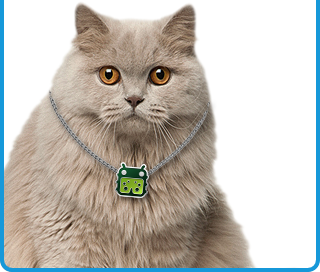
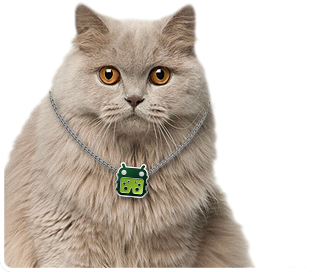
Стили для всех элементов в дефолтном состоянии, изменил изображение кота, добавил переменных для цветов, разметка для остальных карточек товара.

Changed region(s): [[0.0, 0.0, 1.0, 1.0]]

diff --git a/src/scss/_index.scss b/src/scss/_index.scss
@@ -1,0 +1,173 @@
+.main-title {
+  margin-top: 0;
+  margin-bottom: 27px;
+  padding-top: 41px;
+  width: 100%;
+  font-family: $font-exo-thin;
+  font-weight: 100;
+  font-size: 36px;
+  line-height: 1;
+  text-align: center;
+  text-shadow: 0 1px 0 #000;
+  color: #fff;
+}
+
+.catalog {
+  display: flex;
+  flex-wrap: wrap;
+  justify-content: space-between;
+  width: 100%;
+  background: transparent;
+
+  &__item {
+    width: 100%;
+    max-width: 320px;
+  }
+
+  .item {
+    position: relative;
+    overflow: hidden;
+    padding-top: 47px;
+    background: transparent;
+
+    &__wrapper {
+      position: relative;
+      border: 4px solid $color-curious-blue;
+      border-top: none;
+      border-bottom-left-radius: 12px;
+      border-bottom-right-radius: 12px;
+      padding-left: 43px;
+      min-height: 433px;
+      background: $color-concrete;
+
+      &::before {
+        content: "";
+        position: absolute;
+        left: 17px;
+        top: -47px;
+        z-index: -1;
+        border-top: 4px solid $color-curious-blue;
+        border-left: 6px solid $color-curious-blue;
+        width: 60px;
+        height: 47px;
+        background: $color-concrete;
+        transform: skewX(-45deg);
+      }
+
+      &::after {
+        content: "";
+        position: absolute;
+        right: -4px;
+        top: -47px;
+        z-index: -1;
+        border-top: 4px solid $color-curious-blue;
+        border-right: 4px solid $color-curious-blue;
+        border-top-right-radius: 12px;
+        width: 100%;
+        height: 47px;
+        max-width: 270px;
+        background: $color-concrete;
+      }
+    }
+
+    &__header {
+      transform: translateY(-27px);
+    }
+
+    &__description {
+      color: $color-dove-gray;
+    }
+
+    &__title {
+      margin-bottom: 16px;
+      padding-top: 5px;
+      font-size: 0;
+      color: #000;
+    }
+
+    &__name {
+      display: block;
+      font-weight: 700;
+      font-size: 48px;
+    }
+
+    &__taste {
+      display: block;
+      padding-left: 2px;
+      font-weight: 700;
+      font-size: 24px;
+      line-height: 1;
+    }
+
+    &__params {
+      span {
+        display: block;
+        padding-right: 35%;
+        font-size: 14px;
+        line-height: 1.2;
+        color: $color-dove-gray;
+      }
+    }
+
+    &__packaging {
+      position: absolute;
+      right: 11px;
+      bottom: 11px;
+      z-index: 2;
+      display: flex;
+      align-items: center;
+      justify-content: center;
+      border-radius: 50%;
+      width: 81px;
+      height: 81px;
+      background-color: $color-curious-blue;
+    }
+
+    &__number {
+      padding-top: 4px;
+      padding-left: 1px;
+      font-size: 21px;
+      line-height: 1;
+      text-align: center;
+      color: $color-white;
+
+      span {
+        display: block;
+        font-weight: 400;
+
+        &:nth-of-type(1) {
+          font-size: 42px;
+        }
+      }
+    }
+
+    &__image {
+      position: absolute;
+      left: -3px;
+      bottom: -4px;
+      z-index: 1;
+
+      &--cat {
+        border-bottom-left-radius: 12px;
+        width: 320px - 42px;
+        height: 272px;
+        background: transparent url("../images/cat_photo.png") -1px 0 no-repeat;
+      }
+    }
+
+    &__footer {
+      p {
+        font-size: 13px;
+        text-align: center;
+        color: $color-white;
+      }
+
+      a {
+        border-bottom: 1px dashed $color-curious-blue;
+        font-weight: 700;
+        text-decoration: none;
+        color: $color-curious-blue;
+      }
+    }
+  }
+}

diff --git a/src/scss/_variables.scss b/src/scss/_variables.scss
@@ -10,9 +10,11 @@ $color-nobel: #b3b3b3;
 $color-laser-lemon: #ff6;
 $color-dove-gray: #666;
 $color-concrete: #f2f2f2;
+$color-white: #fff;
 
 // Typography
 
 $font-trebuchet: "Trebuchet MS", "Lucida Sans Unicode", "Lucida Grande", "Lucida Sans", Arial, sans-serif;
+$font-exo-thin: "Exo_2_Thin", sans-serif;
 
 // Vendor

diff --git a/src/scss/_common.scss b/src/scss/_common.scss
@@ -4,7 +4,7 @@
   display: flex;
   align-items: center;
   flex-direction: column;
-  justify-content: center;
+  // justify-content: center;
   overflow-x: hidden;
   overflow-y: hidden;
   min-height: 100%;
@@ -24,4 +24,5 @@
   margin: 0 auto;
   width: 100%;
   max-width: 1120px;
+  background-color: transparent;
 }

diff --git a/src/scss/_fonts.scss b/src/scss/_fonts.scss
@@ -1,6 +1,6 @@
 @font-face {
-  font-family: 'Exo 2.0';
-  src: url('./fonts/Exo20-Thin.woff') format('woff');
+  font-family: "Exo_2_Thin";
   font-weight: 100;
   font-style: normal;
+  src: url("../fonts/Exo20-Thin.woff") format("woff");
 }

diff --git a/src/js/main.js b/src/js/main.js
@@ -6,7 +6,7 @@
 svg4everybody();
 
 let $html = $(document.documentElement);
-let $body = $(document.body);
+// let $body = $(document.body);
 
 // Загрузка страницы
 
